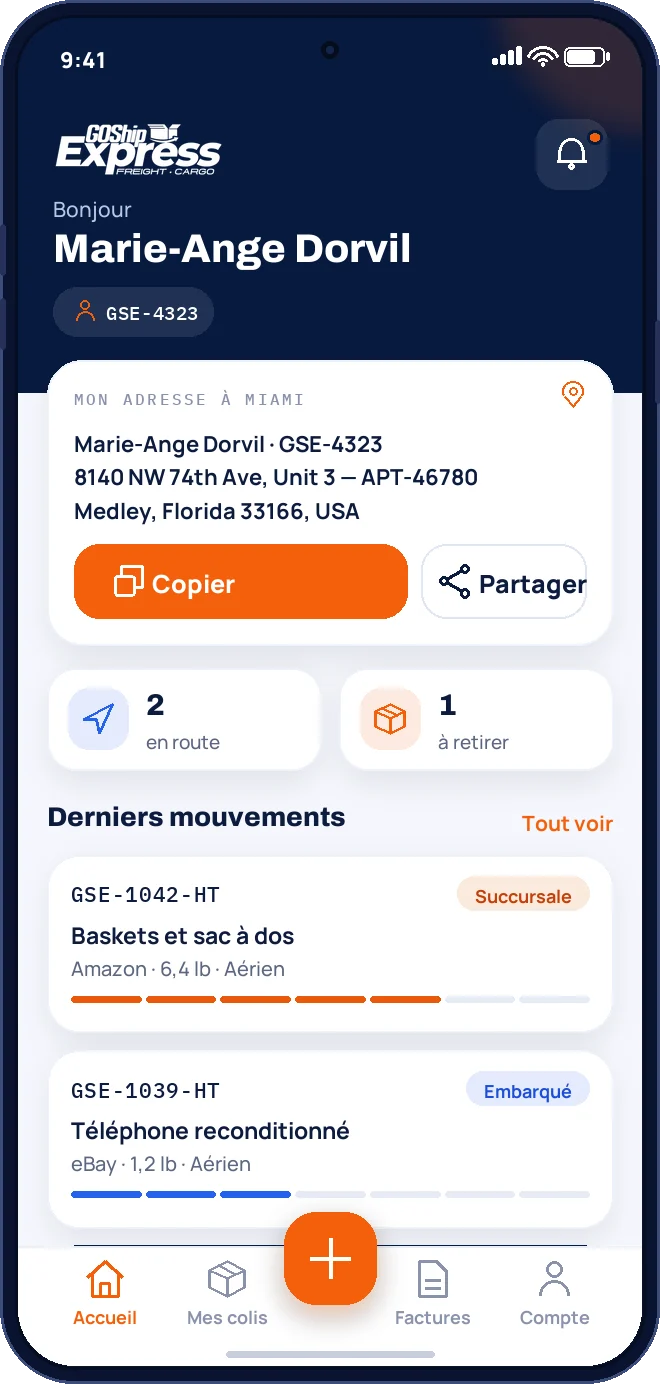
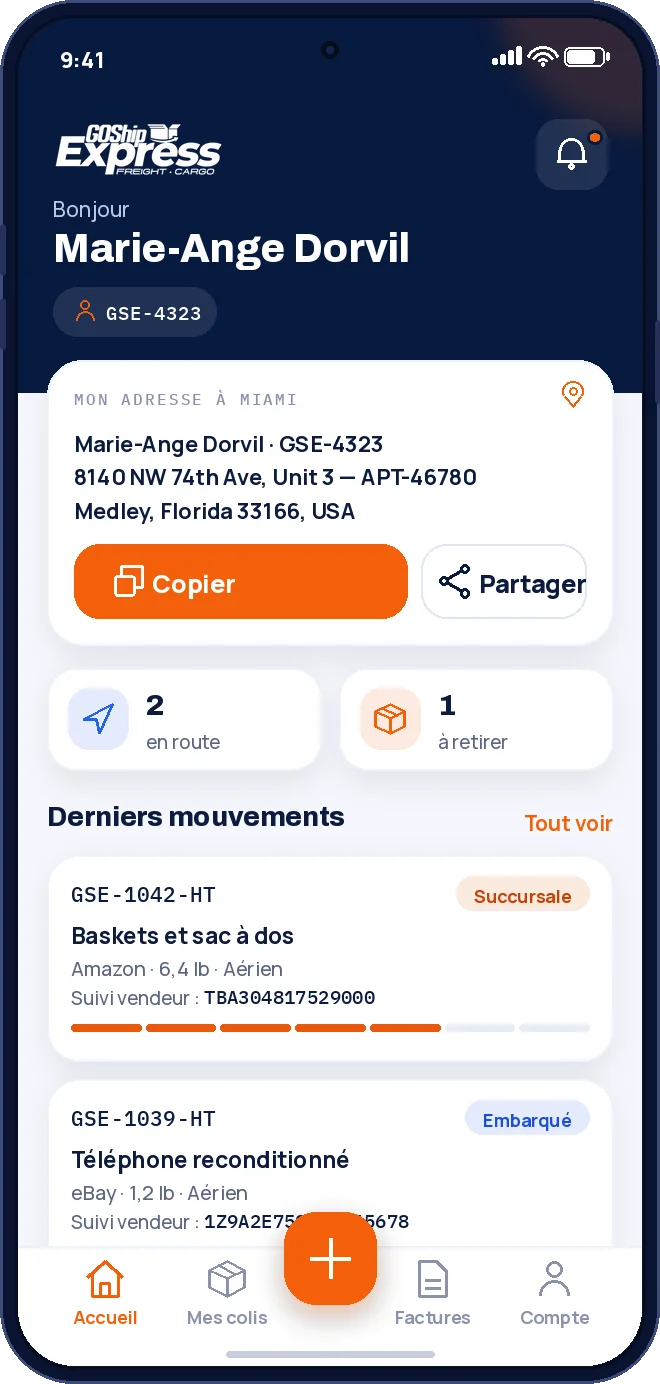
L'image de l'accueil de l'application sur le site montre le suivi du vendeur sur chaque colis, sans la bande « Annoncer un achat »
Claude-Session: https://claude.ai/code/session_016GmkRzkB7kP8DqB3ACsGEM

diff --git a/outils/ecrans-app/ecrans.py b/outils/ecrans-app/ecrans.py
@@ -375,27 +375,25 @@ def ecran_accueil():
     ecrire(d, (LARGEUR - 18 - largeur_texte(d, t, police('gras', 13)), y + 4), t, police('gras', 13), ACCENT)
 
     y += 22 + 11
-    colis = [('GSE-1042-HT', 'Baskets et sac à dos', 'Amazon · 6,4 lb · Aérien', 'Succursale', 'succursale'),
-             ('GSE-1039-HT', 'Téléphone reconditionné', 'eBay · 1,2 lb · Aérien', 'Embarqué', 'embarque')]
-    for numero, quoi, details, libelle, statut in colis:
-        carte(im, (18, y, LARGEUR - 18, y + 111), 20)
+    # Chaque carte montre le numéro de suivi du vendeur (components/colis.jsx) ;
+    # l'accueil n'a plus la bande « Annoncer un achat » : le « + » orange y mène.
+    colis = [('GSE-1042-HT', 'Baskets et sac à dos', 'Amazon · 6,4 lb · Aérien', 'TBA304817529000',
+              'Succursale', 'succursale'),
+             ('GSE-1039-HT', 'Téléphone reconditionné', 'eBay · 1,2 lb · Aérien', '1Z9A2E750312345678',
+              'Embarqué', 'embarque')]
+    for numero, quoi, details, suivi, libelle, statut in colis:
+        carte(im, (18, y, LARGEUR - 18, y + 129), 20)
         d = ImageDraw.Draw(im)
         ecrire(d, (33, y + 16), numero, police('mono', 13), TEXTE, 0.4)
         l = largeur_texte(d, libelle, police('gras', 11.5)) + 22
         pastille(d, LARGEUR - 33 - l, y + 13, libelle, statut)
         ecrire(d, (33, y + 40), quoi, police('gras', 14.5), TEXTE)
         ecrire(d, (33, y + 62), details, police('corps', 12.5), DOUX)
-        frise(d, 33, y + 88, LARGEUR - 66, statut)
-        y += 111 + 11
-
-    # Bande « Annoncer un achat »
-    rect(d, (18, y, LARGEUR - 18, y + 66), 20, NUIT)
-    rect_voile(im, (32, y + 14, 70, y + 52), 13, (244, 96, 13, 51))
-    icone(d, 51, y + 33, 'bell', '#ff8b45', 9.5)
-    ecrire(d, (82, y + 16), 'Annoncer un achat', police('gras', 14), '#ffffff')
-    ecrire(d, (82, y + 37), 'Pré-alerte : votre colis est traité plus vite',
-           police('corps', 12.5), SUR_NUIT)
-    icone(d, LARGEUR - 34, y + 33, 'chevron-right', '#ffffff', 10)
+        t = 'Suivi vendeur : '
+        ecrire(d, (33, y + 81), t, police('corps', 12), DOUX)
+        ecrire(d, (33 + largeur_texte(d, t, police('corps', 12)), y + 81), suivi, police('mono', 12), TEXTE)
+        frise(d, 33, y + 106, LARGEUR - 66, statut)
+        y += 129 + 11
 
     barre_onglets(im, 'index')
     return im

diff --git a/CHANGELOG.md b/CHANGELOG.md
@@ -7,6 +7,15 @@ Les versions `site-AAAA.MM.JJ` désignent à la fois les pages et l'état de
 `outils/` : la chaîne de migrations (`outils/migrations.txt`) à appliquer à la
 base **avant** de publier le site.
 
+## site-2026.09.30.3 — image de l'accueil de l'application à jour
+
+Aucune migration. Sur la page d'accueil du site (section « Vos colis dans votre poche »),
+le téléphone du milieu (`assets/img/app-ecran-accueil.webp`, dessiné par
+`outils/ecrans-app/ecrans.py`) montre l'accueil de l'application tel qu'il est depuis
+goship-express-app#13 : plus de bande bleue « Annoncer un achat », et une ligne
+« Suivi vendeur » (numéro du magasin) sur chaque carte de colis. Les deux autres
+téléphones ne changent pas.
+
 ## site-2026.09.30.2 — tableau de bord sombre : cases à cocher et « En direct » lisibles
 
 Aucune migration. En apparence sombre, les cases à cocher (`.gs-case` : « Fixer le prix à
